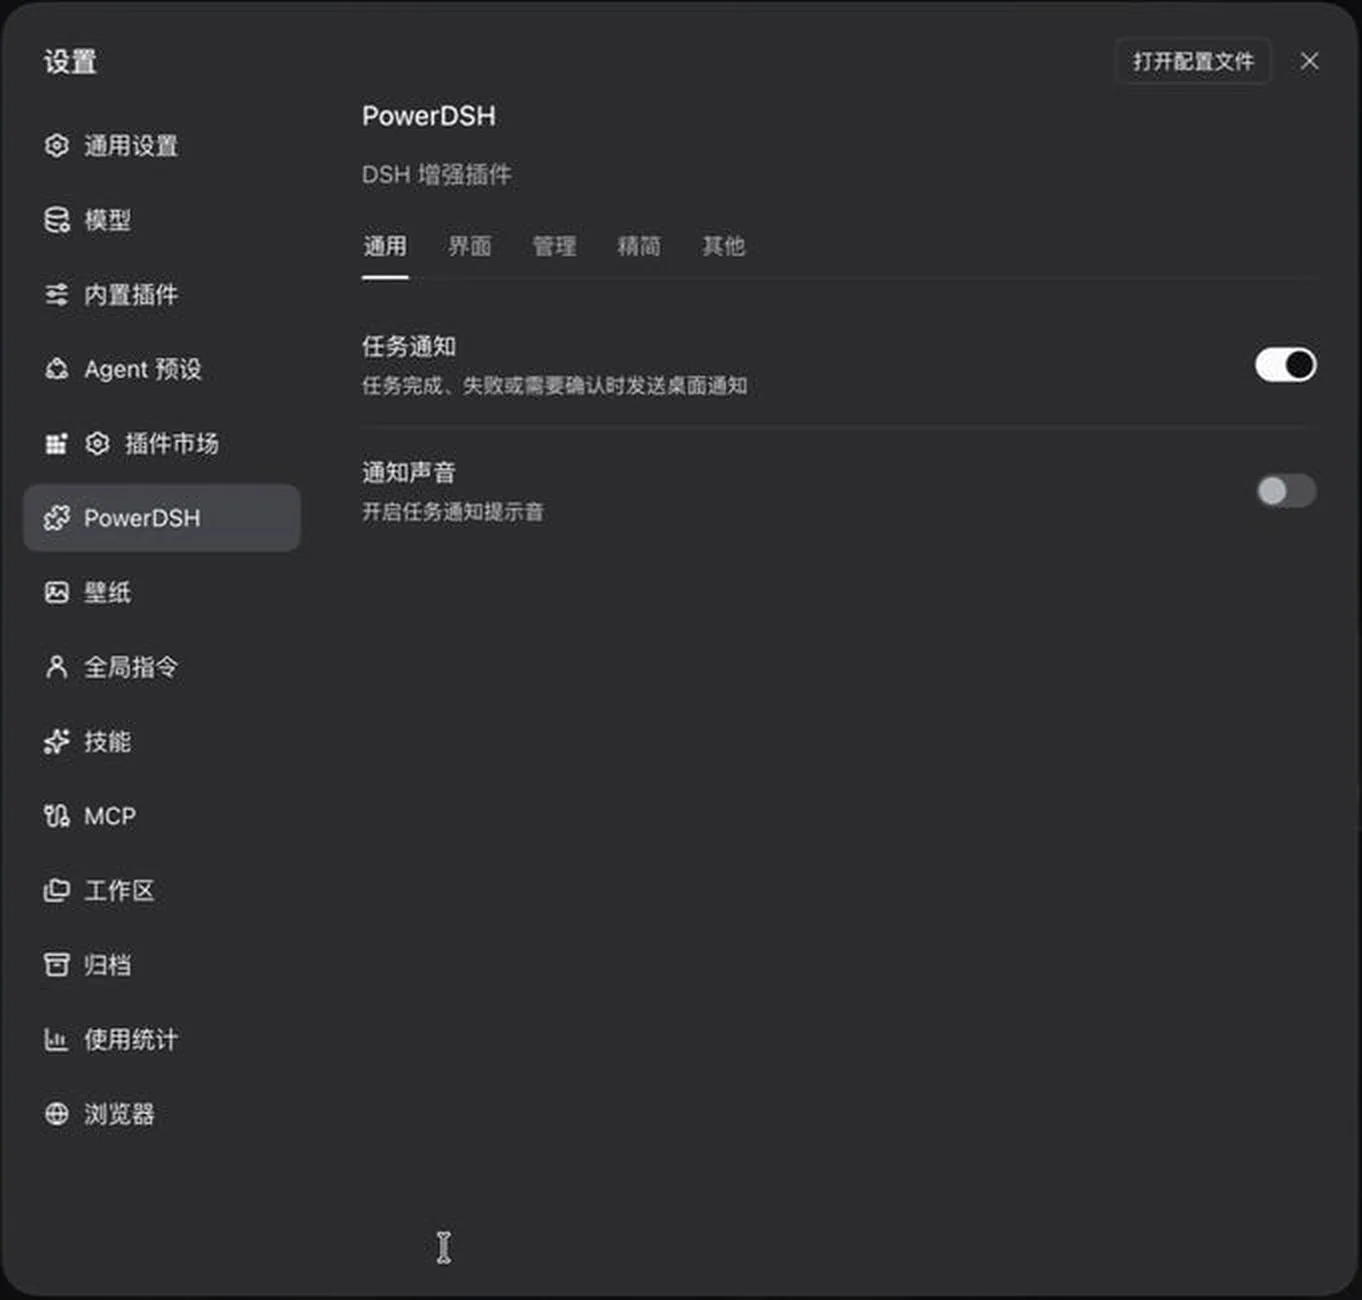
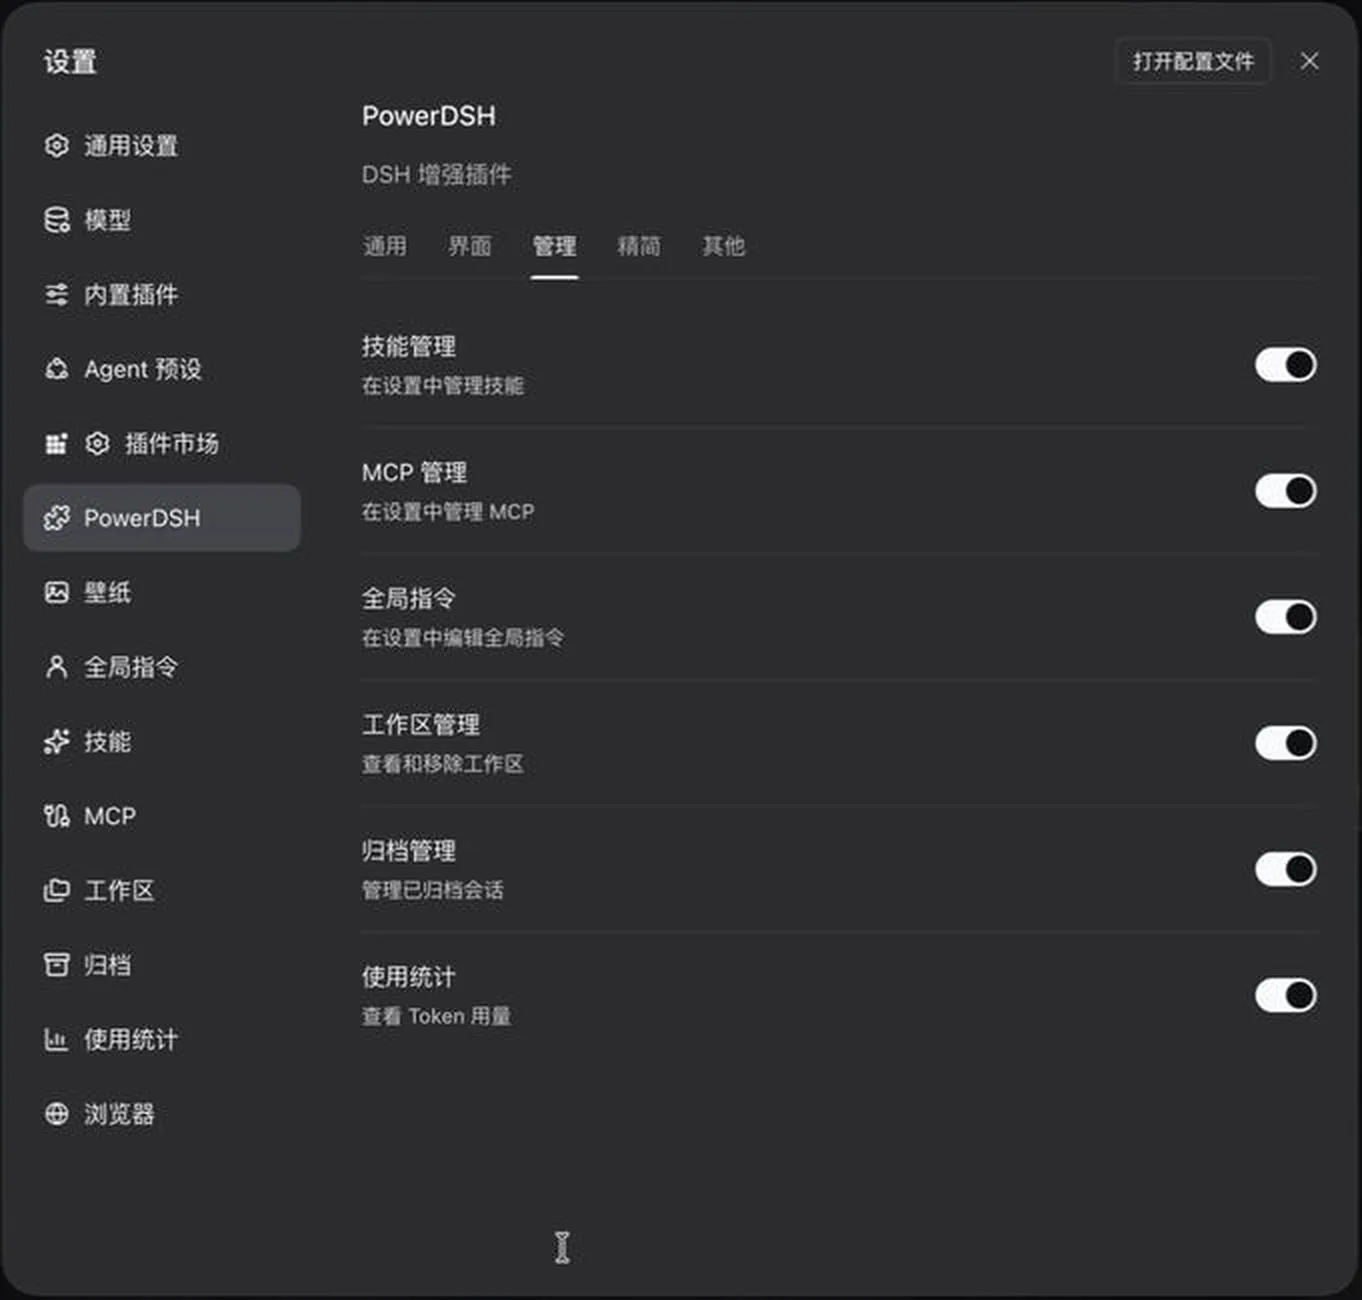
docs(readme): show the management tab in the screenshot

diff --git a/README.md b/README.md
@@ -3,7 +3,7 @@
 > **优雅克制，专注实效。让你的 DSH 更顺手、更高效。**\
 > *Minimal, elegant, yet deeply powerful. Making your DSH effortless and efficient.*
 
-<img src="docs/images/0.0.1/settings.webp" alt="PowerDSH 设置页" width="560">
+<img src="docs/images/0.0.1/settings.webp" alt="PowerDSH 管理页" width="560">
 
 ## 功能清单
 
